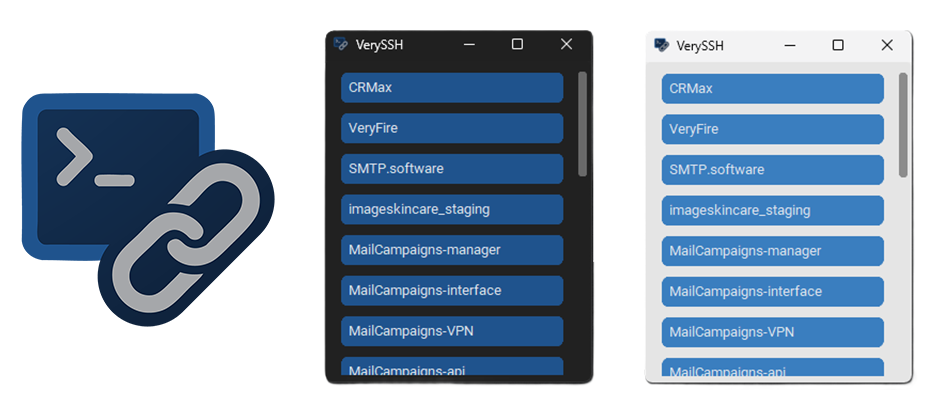
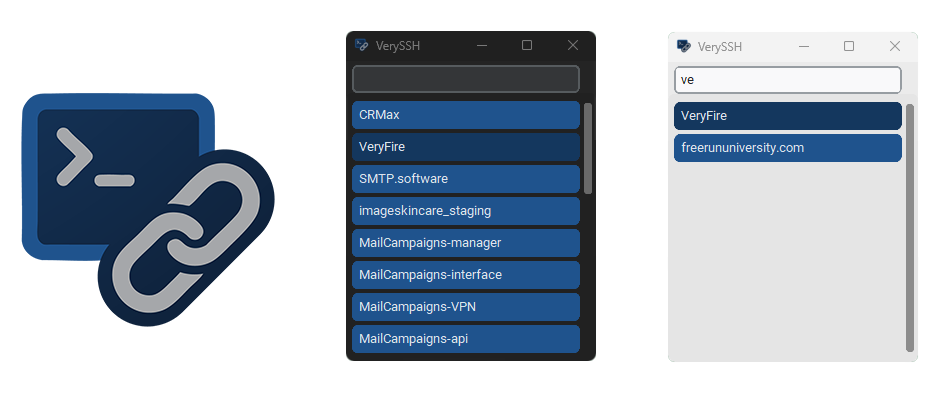
Enhance keyboard navigation and global search functionality in GUI

diff --git a/ssh_launcher/ui.py b/ssh_launcher/ui.py
@@ -36,10 +36,21 @@ def launch_gui(hosts, light_mode):
                 textvariable=self.search_var
             )
             self.search_bar.pack(fill="x", padx=(6, 15), pady=(4, 0))
-            self.search_bar.bind("<KeyRelease>", self.search)
+            self.search_bar.bind("<KeyRelease>", self.global_search)
+            self.search_bar.configure(state="disabled")
 
-            # Focus the search bar when the app starts
-            self.search_bar.focus_set()
+            # Disable the search bar so it cannot be clicked or focused
+            self.search_bar.configure(state="disabled")
+
+            # Bind key events to the root window for global search functionality
+            self.bind("<Key>", self.global_search)
+            # Bind arrow keys and Enter for navigation and selection
+            self.bind("<Up>", self.move_cursor_up)
+            self.bind("<Down>", self.move_cursor_down)
+            self.bind("<Return>", self.open_selected_host)
+            # Bind the Escape key to close the application
+            self.bind("<Escape>", self.close_application)
+
 
             # Create a scrollable frame to hold the buttons
             self.host_buttons_frame = ctk.CTkScrollableFrame(self)
@@ -48,6 +59,7 @@ def launch_gui(hosts, light_mode):
             # Store the hosts and buttons
             self.hosts = hosts
             self.host_buttons = []
+            self.selected_index = -1  # Track the currently selected host
 
             # Create a button for each host
             self.create_host_buttons()
@@ -59,7 +71,7 @@ def launch_gui(hosts, light_mode):
             self.host_buttons.clear()
 
             # Add buttons for the current hosts
-            for host in self.hosts:
+            for index, host in enumerate(self.hosts):
                 button = ctk.CTkButton(
                     self.host_buttons_frame, 
                     text=host, 
@@ -69,19 +81,64 @@ def launch_gui(hosts, light_mode):
                 button.pack(padx=0, pady=2, fill="x")
                 self.host_buttons.append(button)
 
+                # Bind mouse hover event to update selected_index
+                button.bind("<Enter>", lambda event, idx=index: self.update_selected_index(idx))
+
+            # Reset selection index if hosts are updated
+            self.update_selected_index(0)
+
+        def update_selected_index(self, index):
+            self.selected_index = index
+            self.highlight_selected_button()
+
+        def highlight_selected_button(self):
+            # Highlight the currently selected button
+            for i, button in enumerate(self.host_buttons):
+                if i == self.selected_index:
+                    button.configure(fg_color="#14375e")  # Highlight color
+                else:
+                    button.configure(fg_color="#1f538d")  # Default color
+
+        def move_cursor_up(self, event):
+            if self.host_buttons:
+                self.selected_index = max(self.selected_index - 1, 0)  # Ensure it doesn't go below 0
+                self.highlight_selected_button()
+
+        def move_cursor_down(self, event):
+            if self.host_buttons:
+                self.selected_index = min(self.selected_index + 1, len(self.host_buttons) - 1)  # Ensure it doesn't exceed the last index
+                self.highlight_selected_button()
+
+        def open_selected_host(self, event):
+            if 0 <= self.selected_index < len(self.host_buttons):
+                selected_host = self.hosts[self.selected_index]
+                connect_ssh(selected_host)
+
         def filter_hosts(self, event):
             search_term = self.search_var.get().lower()
             filtered_hosts = [host for host in hosts if search_term in host.lower()]
             self.hosts = filtered_hosts
             self.create_host_buttons()
 
-        def search(self, event):
+        def global_search(self, event):
             # Ignore non-character keys like arrow keys, Shift, etc.
             ignored_keys = {"Shift_L", "Shift_R", "Control_L", "Control_R", 
                             "Alt_L", "Alt_R", "Caps_Lock", "Tab", 
                             "Left", "Right", "Up", "Down"}
             if event.keysym not in ignored_keys and (event.char.isprintable() or event.keysym in ("BackSpace", "Delete")):
+            # Update the search bar's text variable with the keypress
+                current_text = self.search_var.get()
+                if event.keysym == "BackSpace":
+                    self.search_var.set(current_text[:-1])  # Remove last character
+                elif event.keysym == "Delete":
+                    self.search_var.set("")  # Clear the search bar
+                else:
+                    self.search_var.set(current_text + event.char)
                 self.filter_hosts(event)
+                self.update_selected_index(0)
+
+        def close_application(self, event):
+            self.destroy()
 
     app = App()
     app.mainloop()

diff --git a/README.md b/README.md
@@ -15,7 +15,15 @@ SSH keychain 🔑🔗
 - Click to connect via Windows Terminal (`wt ssh <host>`)
 - Auto light/dark mode based on Windows settings
 - Minimal, fast, and easy to use
+- Easy keyboard navigation
 ---
+
+## ⌨ Keyboard Shortcuts
+**Type to filter hosts**
+- **Arrow Up/Down**: Navigate through the list of hosts
+- **Enter**: Connect to the selected host
+- **Esc**: Close the application
+- **Delete**: Clear the filter
 
 ## 🚀 How to Run
 
